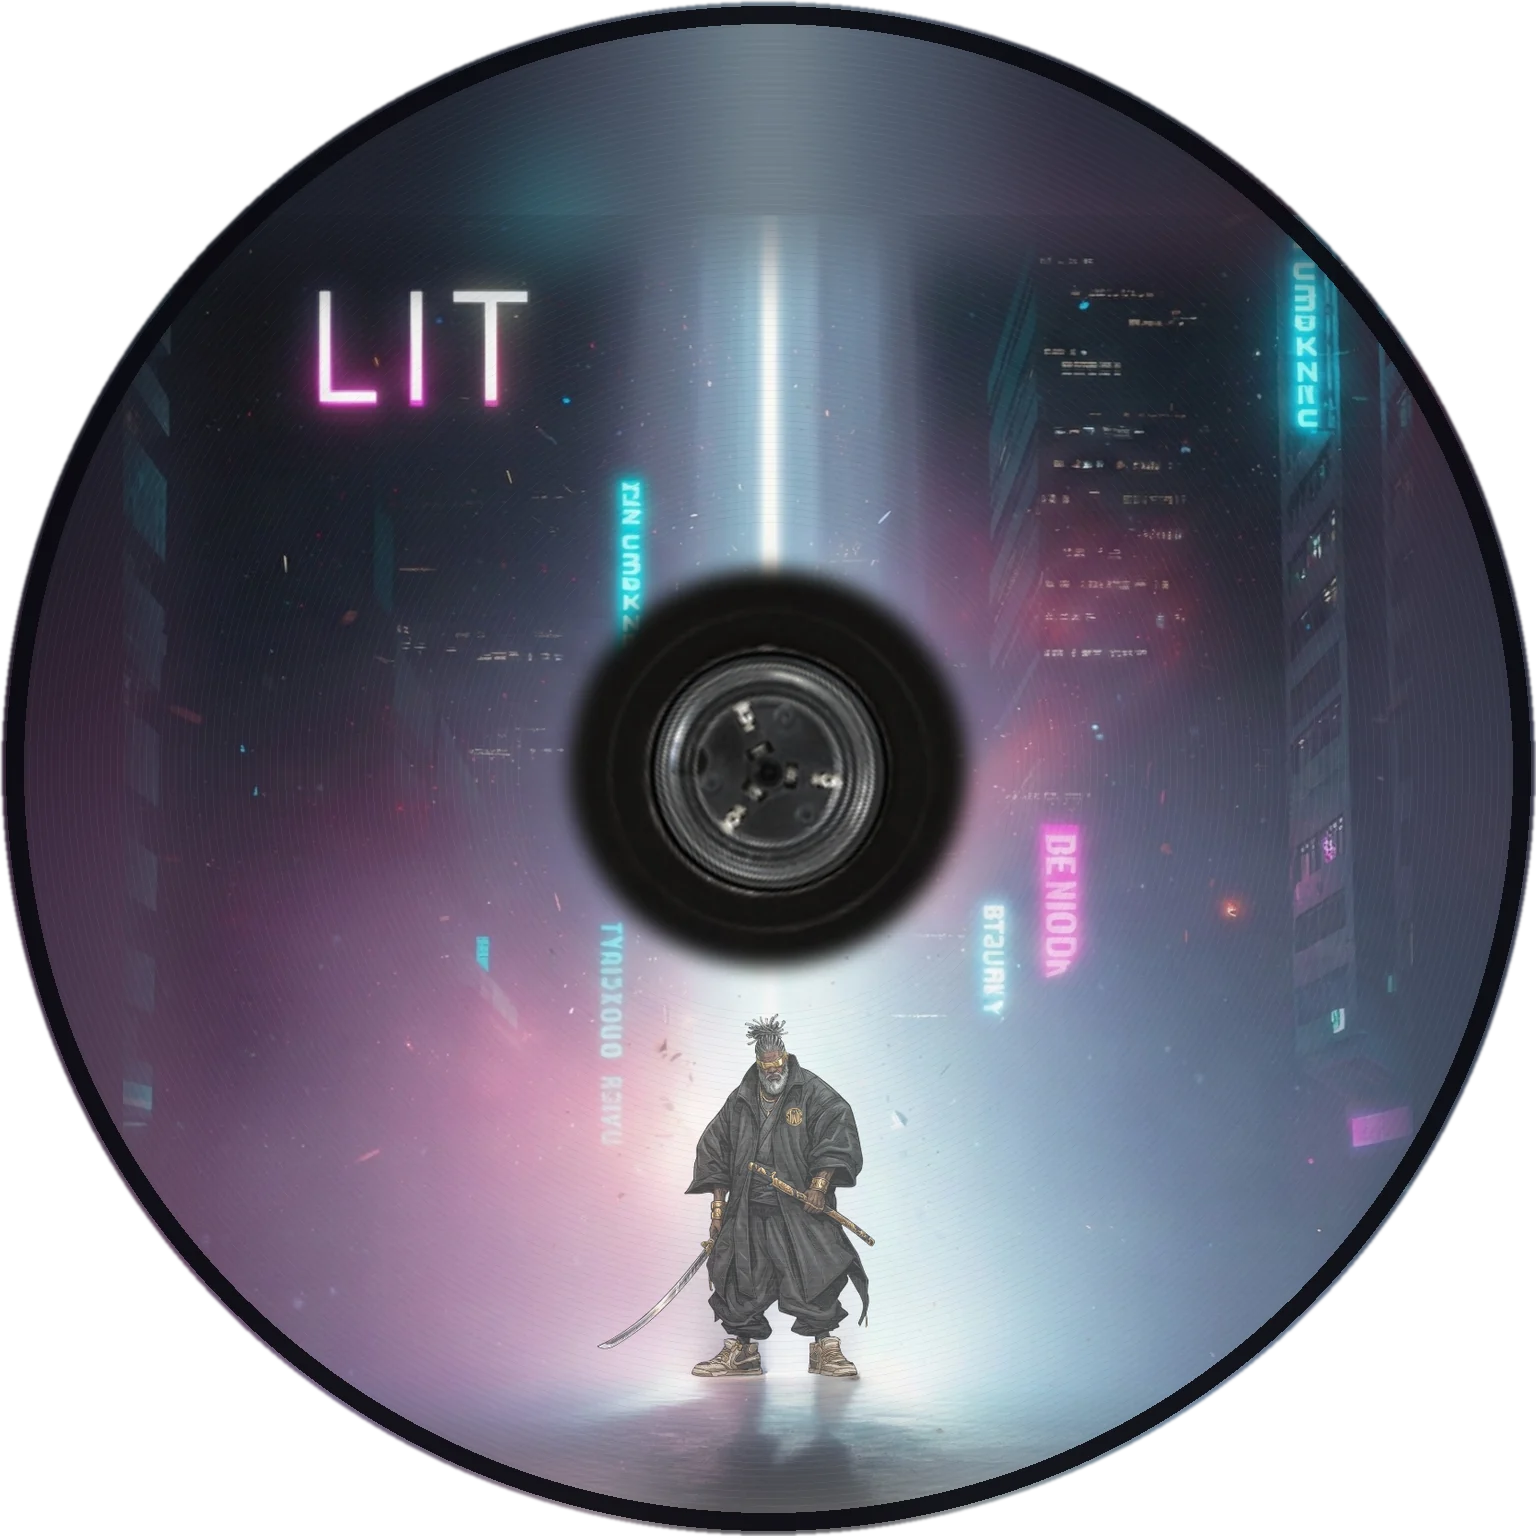
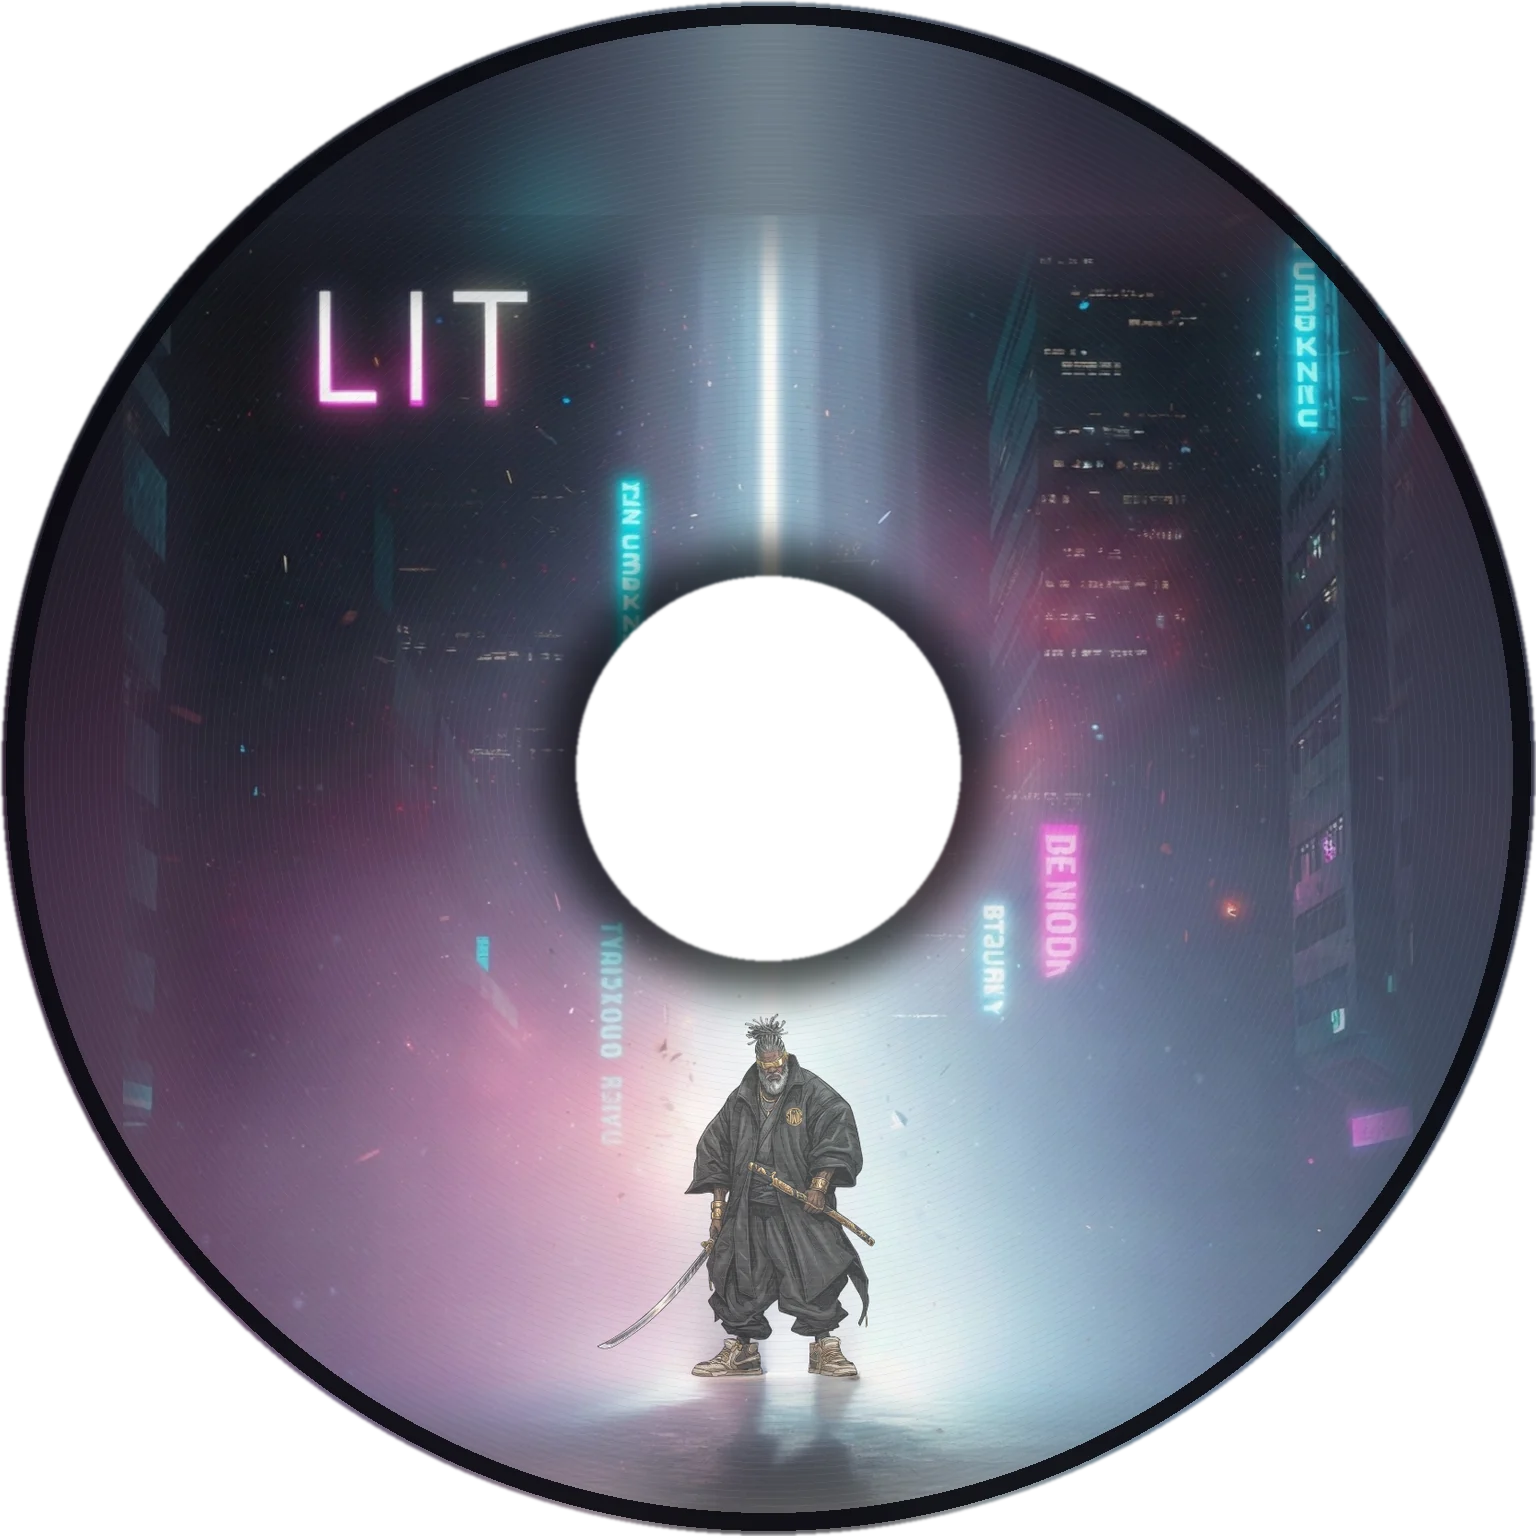
feat: disc with real thickness and a separate machined centre hub
The disc art has a centre opening with a contact shadow; a bevelled steel
hub plate with ring, spindle hole and dimples sits in it and spins with
the disc. The disc gets an outer edge, inner wall and silver data side.

Claude-Session: https://claude.ai/code/session_017VJsJdZuLzE8MsH2QK8Pny

Changed region(s): [[0.3438, 0.3438, 0.6562, 0.6562]]

diff --git a/src/player3d/cartridge-detail.ts b/src/player3d/cartridge-detail.ts
@@ -1,8 +1,11 @@
 import {
   AdditiveBlending,
+  BackSide,
   BoxGeometry,
   CanvasTexture,
+  CircleGeometry,
   Color,
+  CylinderGeometry,
   Group,
   LatheGeometry,
   Mesh,
@@ -18,6 +21,7 @@ import {
   Vector3,
   type BufferGeometry,
   type Material,
+  type Object3D,
   type MeshStandardMaterialParameters,
   type ShaderMaterial,
   type Texture,
@@ -29,7 +33,9 @@ import { RoomEnvironment } from 'three/addons/environments/RoomEnvironment.js';
  * Realism layer for the MiniDisc cartridge, on top of the Canva artwork:
  * - real Phillips screws (lathe heads, brushed steel, recessed cross) seated in counterbored wells: the shell
  *   is cut open at each screw and a plastic well (wall + floor) sinks below the surface,
- * - steel hub rings (the disc's clamp plate, and the hub on the back),
+ * - a disc with real thickness (top face, outer edge, inner wall, silver data side) and a separate machined
+ *   metal hub sitting in its centre opening (plate, steel ring, spindle hole, dimples) that spins with it,
+ * - a steel hub ring and chrome cap on the back,
  * - clear-plastic gloss: an additive clearcoat pass over the shell, with normals from the artwork,
  * - a rainbow sheen on the disc that shows at an angle,
  * - paper grain for the label.
@@ -147,6 +153,24 @@ function screwMaps(): { map: CanvasTexture; aoMap: CanvasTexture; normalMap: Can
   return { map, aoMap, normalMap: heightToNormal(height, 6) };
 }
 
+/** Concentric machining rings for the hub plate, as a normal map. */
+function machinedNormal(): CanvasTexture {
+  const size = 256;
+  const [height, ctx] = canvas(size);
+  const image = ctx.createImageData(size, size);
+  for (let y = 0; y < size; y++) {
+    for (let x = 0; x < size; x++) {
+      const r = Math.hypot(x - size / 2, y - size / 2);
+      const value = 128 + Math.sin(r * 1.9) * 40 + (Math.random() - 0.5) * 20;
+      const i = (y * size + x) * 4;
+      image.data[i] = image.data[i + 1] = image.data[i + 2] = value;
+      image.data[i + 3] = 255;
+    }
+  }
+  ctx.putImageData(image, 0, 0);
+  return heightToNormal(height, 0.8);
+}
+
 /** Fine paper fibre for the label, tiling. */
 export function paperGrainNormal(): CanvasTexture {
   const size = 256;
@@ -262,14 +286,22 @@ export interface CartridgeDetailInput {
   rect: Rect;
   screws: { front: number[][]; back: number[][]; radius: number };
   backHub: { u: number; v: number; outer: number; inner: number; cap: number };
-  disc: { x: number; y: number; z: number; radius: number; hubRing: number[] };
+  /** Disc centre, top face z (the art plane), thickness and radius; hub sizes are fractions of the radius. */
+  disc: {
+    x: number;
+    y: number;
+    topZ: number;
+    thickness: number;
+    radius: number;
+    hub: { hole: number; plate: number; ring: number[]; spindle: number };
+  };
   normals: { front: Texture; back: Texture };
   environment: Texture | null;
   quality: DetailQuality;
 }
 
-/** Builds the realism layer into the cartridge. */
-export function addCartridgeDetail(input: CartridgeDetailInput): void {
+/** Builds the realism layer into the cartridge. Returns the parts that spin with the disc. */
+export function addCartridgeDetail(input: CartridgeDetailInput): { spinning: Object3D[] } {
   const { rect, environment: envMap, quality } = input;
   const width = rect.x1 - rect.x0;
   const height = rect.y1 - rect.y0;
@@ -325,11 +357,71 @@ export function addCartridgeDetail(input: CartridgeDetailInput): void {
   cap.position.set(hx, hy, input.backZ);
   input.cartridge.add(backRing, cap);
 
-  // Disc clamp ring and rainbow sheen behind the clear window (both round, so they needn't spin).
+  // Disc body: the art is the top face (deck.ts); here its outer edge, inner wall and silver data side.
   const disc = input.disc;
-  const [ringInner, ringOuter] = disc.hubRing.map((fraction) => fraction * disc.radius);
-  const clamp = new Mesh(ring(ringInner, ringOuter, 0.0024, 1), steel({ color: '#8f959d', roughness: 0.48, envMapIntensity: 0.25 }));
-  clamp.position.set(disc.x, disc.y, disc.z + 0.0002);
+  const R = disc.radius;
+  const bottomZ = disc.topZ - disc.thickness;
+  const holeR = disc.hub.hole * R;
+  const edgeMaterial = new MeshStandardMaterial({ color: '#8d95a3', metalness: 0.55, roughness: 0.28, envMap, envMapIntensity: 0.45 });
+  const tube = (radius: number, openInward: boolean) => {
+    const geometry = new CylinderGeometry(radius, radius, disc.thickness, 96, 1, true);
+    geometry.rotateX(Math.PI / 2);
+    const mesh = new Mesh(geometry, openInward ? edgeMaterial.clone() : edgeMaterial);
+    if (openInward) (mesh.material as MeshStandardMaterial).side = BackSide; // the wall faces into the hole
+    mesh.position.set(disc.x, disc.y, disc.topZ - disc.thickness / 2);
+    return mesh;
+  };
+  const dataSide: Material =
+    quality === 'high'
+      ? new MeshPhysicalMaterial({
+          color: '#c3c8d1',
+          metalness: 1,
+          roughness: 0.22,
+          iridescence: 0.8,
+          iridescenceIOR: 1.6,
+          envMap,
+          envMapIntensity: 0.5,
+        })
+      : steel({ color: '#c3c8d1', roughness: 0.25, envMapIntensity: 0.45 });
+  const underside = new Mesh(new RingGeometry(holeR, R, 96), dataSide);
+  underside.rotation.x = Math.PI; // faces -z
+  underside.position.set(disc.x, disc.y, bottomZ);
+  input.cartridge.add(tube(R, false), tube(holeR, true), underside);
+
+  // Metal hub: a separate machined part sitting in the disc's opening, standing proud of the art.
+  const discHub = new Group();
+  discHub.position.set(disc.x, disc.y, bottomZ - 0.001);
+  const plateR = disc.hub.plate * R;
+  const plateHeight = disc.thickness + 0.001 + 0.003;
+  const bevel = 0.0014;
+  const plate = new Mesh(
+    lathe(
+      [
+        [plateR, 0],
+        [plateR, plateHeight - bevel],
+        [plateR - bevel, plateHeight],
+        [0, plateHeight],
+      ],
+      plateR,
+      1,
+    ),
+    steel({ color: '#6f747d', roughness: 0.42, normalMap: machinedNormal(), normalScale: new Vector2(0.35, 0.35) }),
+  );
+  const [ringInner, ringOuter] = disc.hub.ring.map((fraction) => fraction * R);
+  const clamp = new Mesh(ring(ringInner, ringOuter, 0.0016, 1), steel({ color: '#d2d5da', roughness: 0.26, envMapIntensity: 0.4 }));
+  clamp.position.z = plateHeight;
+  const hole = new MeshBasicMaterial({ color: '#050507' });
+  const spindleR = disc.hub.spindle * R;
+  const spindle = new Mesh(new CircleGeometry(spindleR, 40), hole);
+  spindle.position.z = plateHeight + 0.0001;
+  const lip = new Mesh(ring(spindleR, spindleR * 1.35, 0.0007, 1), steel({ roughness: 0.3 }));
+  lip.position.z = plateHeight;
+  discHub.add(plate, clamp, spindle, lip);
+  for (const side of [-1, 1]) {
+    const dimple = new Mesh(new CircleGeometry(0.02 * R, 20), hole);
+    dimple.position.set(side * 0.2 * R, 0, plateHeight + 0.0001);
+    discHub.add(dimple);
+  }
 
   const additive = { transparent: true, blending: AdditiveBlending, depthWrite: false } as const;
   const sheenMaterial: Material =
@@ -345,10 +437,10 @@ export function addCartridgeDetail(input: CartridgeDetailInput): void {
           ...additive,
         })
       : new MeshStandardMaterial({ color: 0x000000, roughness: 0.3, envMap, envMapIntensity: 0.35, ...additive });
-  const sheen = new Mesh(new RingGeometry(ringOuter, disc.radius * 0.985, 96), sheenMaterial);
-  sheen.position.set(disc.x, disc.y, disc.z + 0.0004);
+  const sheen = new Mesh(new RingGeometry(plateR, R * 0.985, 96), sheenMaterial);
+  sheen.position.set(disc.x, disc.y, disc.topZ + 0.0004);
   sheen.renderOrder = 1;
-  input.cartridge.add(clamp, sheen);
+  input.cartridge.add(discHub, sheen);
 
   // Clear-plastic gloss over the whole shell: reflections and highlights only, the artwork untouched.
   const gloss = (normals: Texture | null, openings: Texture | null) => {
@@ -375,4 +467,6 @@ export function addCartridgeDetail(input: CartridgeDetailInput): void {
   coat.position.z = input.slabZ;
   coat.renderOrder = 6;
   input.cartridge.add(coat);
+
+  return { spinning: [discHub] };
 }

diff --git a/src/player3d/deck.ts b/src/player3d/deck.ts
@@ -31,6 +31,9 @@ export const BODY_DEPTH = 0.16;
 /** Cartridge thickness (about 5.7% of its width; a real MiniDisc is about 7%). */
 export const CART_DEPTH = 0.048;
 export const CART_SEATED_Z = -BODY_DEPTH / 2;
+/** The disc's top face (the art) and thickness, inside the shell. */
+const DISC_TOP_Z = -0.003;
+const DISC_THICKNESS = 0.008;
 /** Rounded shell edges that catch highlights. */
 const CART_BEVEL = 0.004;
 const KEY_DEPTH = 0.09;
@@ -125,7 +128,7 @@ export class Deck {
   readonly cartridgeWidth: number;
   readonly cartridgeHeight: number;
   readonly glare: MeshBasicMaterial;
-  private discs: Mesh[] = [];
+  private discs: Object3D[] = [];
   private rpm = 0;
   private rpmTarget = 0;
   private readonly spinScale: number;
@@ -266,14 +269,14 @@ export class Deck {
       new PlaneGeometry(radius * 2, radius * 2),
       new MeshBasicMaterial({ map: textures.disc, transparent: true, alphaTest: 0.05 }),
     );
-    litDisc.position.set(discCentre.x, discCentre.y, -0.008);
+    litDisc.position.set(discCentre.x, discCentre.y, DISC_TOP_Z);
     litDisc.renderOrder = 1;
     const clearRadius = radius * geometry.clearDisc.radiusRatio;
     const clearDisc = new Mesh(
       new PlaneGeometry(clearRadius * 2, clearRadius * 2),
       new MeshBasicMaterial({ map: textures.discClear, transparent: true, opacity: 0.22, depthWrite: false }),
     );
-    clearDisc.position.set(discCentre.x, discCentre.y, -0.003);
+    clearDisc.position.set(discCentre.x, discCentre.y, DISC_TOP_Z + 0.0008);
     clearDisc.renderOrder = 2;
     this.discs.push(litDisc, clearDisc);
 
@@ -318,7 +321,7 @@ export class Deck {
     stock.position.z = CART_DEPTH / 2 + 0.0001;
 
     this.cartridge.add(litDisc, clearDisc, slab, stock, label);
-    addCartridgeDetail({
+    const detail = addCartridgeDetail({
       cartridge: this.cartridge,
       slabGeometry,
       shellMaterial,
@@ -329,11 +332,12 @@ export class Deck {
       rect: local,
       screws: geometry.cartridge.screws,
       backHub: geometry.cartridge.backHub,
-      disc: { x: discCentre.x, y: discCentre.y, z: litDisc.position.z, radius, hubRing: geometry.disc.hubRing },
+      disc: { x: discCentre.x, y: discCentre.y, topZ: DISC_TOP_Z, thickness: DISC_THICKNESS, radius, hub: geometry.disc.hub },
       normals: { front: textures.shellNormal, back: textures.shellBackNormal },
       environment: this.environment,
       quality: this.quality,
     });
+    this.discs.push(...detail.spinning);
     this.cartridge.position.set(c.x, c.y, CART_SEATED_Z);
     this.cartridge.userData.seated = new Vector3(c.x, c.y, CART_SEATED_Z);
     this.group.add(this.cartridge);

diff --git a/scripts/build-player-assets.py b/scripts/build-player-assets.py
@@ -275,9 +275,10 @@ def draw_eject_glyph(key):
     return key
 
 
-def build_disc_face(cover, canva_disc, size=1536, cover_scale=0.84, hub_ratio=0.26, art_offset_y=0.06):
+def build_disc_face(cover, size=1536, cover_scale=0.84, hub_hole=0.25, art_offset_y=0.06):
     """Album cover printed on a MiniDisc: blurred bleed, cover inset so the title survives the round edge,
-    the real hub from the Canva disc on top, faint grooves and a dark rim."""
+    faint grooves and a dark rim. The centre is left open (hub_hole, as a fraction of the disc radius) for
+    the separate 3D metal hub in cartridge-detail.ts, with a soft contact shadow where the hub sits."""
     from PIL import ImageDraw, ImageFilter
 
     face = Image.new("RGBA", (size, size), (6, 6, 12, 255))
@@ -303,20 +304,20 @@ def build_disc_face(cover, canva_disc, size=1536, cover_scale=0.84, hub_ratio=0.
         draw.ellipse((centre - radius, centre - radius, centre + radius, centre + radius), outline=(shade, shade, shade, 9))
     face.alpha_composite(grooves)
 
-    # Real hub from the Canva disc.
-    hub = canva_disc.resize((size, size), Image.LANCZOS)
-    hub_mask = Image.new("L", (size, size), 0)
-    r = size * hub_ratio / 2
-    ImageDraw.Draw(hub_mask).ellipse((centre - r, centre - r, centre + r, centre + r), fill=255)
-    hub.putalpha(hub_mask.filter(ImageFilter.GaussianBlur(size * 0.006)))
-    face.alpha_composite(hub)
+    # Contact shadow around the hub opening.
+    hole = size / 2 * hub_hole
+    shadow = Image.new("RGBA", (size, size), (0, 0, 0, 0))
+    ImageDraw.Draw(shadow).ellipse((centre - hole * 1.18, centre - hole * 1.18, centre + hole * 1.18, centre + hole * 1.18), fill=(0, 0, 0, 170))
+    face.alpha_composite(shadow.filter(ImageFilter.GaussianBlur(size * 0.012)))
 
-    # Dark rim and circular alpha.
+    # Dark rim, circular alpha, and the hub opening.
     rim = Image.new("RGBA", (size, size), (0, 0, 0, 0))
     ImageDraw.Draw(rim).ellipse((6, 6, size - 6, size - 6), outline=(10, 10, 16, 235), width=round(size * 0.012))
     face.alpha_composite(rim)
     mask = Image.new("L", (size, size), 0)
-    ImageDraw.Draw(mask).ellipse((2, 2, size - 2, size - 2), fill=255)
+    draw = ImageDraw.Draw(mask)
+    draw.ellipse((2, 2, size - 2, size - 2), fill=255)
+    draw.ellipse((centre - hole, centre - hole, centre + hole, centre + hole), fill=0)
     face.putalpha(mask.filter(ImageFilter.GaussianBlur(1.2)))
     return face
 
@@ -379,8 +380,13 @@ def main():
             "ry": round(disc_r / (sy1 - sy0), 5),
         },
     }
-    # hubRing: the clamp plate's metal ring on the disc face, as fractions of the disc radius.
-    geometry["disc"] = {"center": to_world(disc_cx, disc_cy), "radius": round(disc_r / body_w, 5), "hubRing": [0.105, 0.145]}
+    # hub: the separate 3D metal hub (cartridge-detail.ts), as fractions of the disc radius. The disc face
+    # has an opening of `hole`; the hub plate (`plate`) overlaps its edge.
+    geometry["disc"] = {
+        "center": to_world(disc_cx, disc_cy),
+        "radius": round(disc_r / body_w, 5),
+        "hub": {"hole": 0.25, "plate": 0.265, "ring": [0.105, 0.145], "spindle": 0.045},
+    }
     # 2048 px (source is about 2340 px) so the eject inspector can zoom in.
     shell_crop = shell.crop((sx0, sy0, sx1, sy1))
     sizes["shell.webp"] = save_webp(shell_crop, "shell.webp", 2048)
@@ -402,7 +408,7 @@ def main():
     half = round(disc_r)
     canva_disc = disc.crop((round(disc_cx) - half, round(disc_cy) - half, round(disc_cx) + half, round(disc_cy) + half))
     art_path = Path(args.disc_art).expanduser()
-    disc_face = build_disc_face(Image.open(art_path).convert("RGBA"), canva_disc) if art_path.exists() else canva_disc
+    disc_face = build_disc_face(Image.open(art_path).convert("RGBA")) if art_path.exists() else canva_disc
     sizes["disc.webp"] = save_webp(disc_face, "disc.webp", 1536)
     clear = page(3)
     cx0, cy0, cx1, cy1 = alpha_bbox(clear)

diff --git a/Grilled.md b/Grilled.md
@@ -146,3 +146,4 @@ Three sub-projects, built in this order:
 | No see-through | Lawrence: "ensure areas that are transparent still that aren't supposed to be are addressed". Audit: every texture is solid inside its outline (only the deck window hole and glass glare are meant to be clear). A magenta-background check found two 3D leaks, both fixed: the cartridge was hollow (back cap and sides only rendered from outside, so you saw past the disc edge through the window), and the front shell discarded pixels where the art's outline is smaller than the 3D shape. The shell is now art over dark plastic, fully opaque outside the disc window; back cap and sides are double-sided. Seated deck, tilted deck and empty deck window checked clean |
 | Screw wells | Lawrence: "ensure you compensate for the indentations and openings where the screws are". Each screw now sits in a counterbore: the opening is cut out of the cap (shader discard on the front, alphaMap on the back and on the gloss coat), a dark plastic well (wall + floor, 1.38× the head radius, 0.008 deep) sinks below the surface, and the head rests on the floor, below the surface. Front and back |
 | Eject feel + thickness | Lawrence: "increase the disk slow down on ejection to about 3 seconds" and "make the mini disk a little bit thicker". Eject now winds the disc from 300 RPM to 0 over 3 s (`EJECT_SPIN_DOWN_SECONDS`) before the door opens and the cartridge pops (about 4.7 s in all). `CART_DEPTH` 0.036 → 0.048 (5.7% of the width; a real MiniDisc is about 7%); the slot and door follow it |
+| Disc depth + separate hub | Lawrence: "make the disk and the center hub on the disk seem like two separate things … not one layer" and "I need the disk to have depth along with the center hub". The disc is now a 0.008-thick platter (art top face, outer edge, inner wall, iridescent silver data side). The printed hub is gone from the art: the disc has a centre opening with a soft contact shadow, and a separate machined steel hub (bevelled plate, raised steel ring, spindle hole, two dimples) sits in it, standing about 0.003 proud and spinning with the disc. Sizes in `geometry.json` `disc.hub` |

diff --git a/CLAUDE.md b/CLAUDE.md
@@ -82,7 +82,7 @@ See `docs/superpowers/specs/2026-09-16-minidisc-player-3d-design.md` and the bui
 - `track-source.ts`: `ConvexTrackSource` / `MockTrackSource`.
 - `scene.ts`: renderer, framing to the HUD's `.p3d-frame`, tilt spring, bloom + CRT pass, visibility pause.
 - `deck.ts`: extruded body/cartridge/keys from `geometry.json` + WebP textures. The disc face is the LIT cover; the cartridge label is "Do Not Duplicate".
-- `cartridge-detail.ts`: realism layer over the Canva art. Lathe-turned steel Phillips screws (occlusion-mapped recess) and hub rings, an additive clearcoat pass with normals baked from the artwork, iridescent disc sheen, paper-grain label, and a studio environment map tinted with the city's neon. Coarse pointers get standard materials instead of clearcoat/iridescence.
+- `cartridge-detail.ts`: realism layer over the Canva art. Lathe-turned steel Phillips screws (occlusion-mapped recess) in counterbored wells cut into the shell, a disc with real thickness and a separate machined hub in its centre opening, a steel hub ring on the back, an additive clearcoat pass with normals baked from the artwork, iridescent disc sheen, paper-grain label, and a studio environment map tinted with the city's neon. Coarse pointers get standard materials instead of clearcoat/iridescence.
 - `halo.ts`: 3D start-up halo hovering in front of the disc while inserting or calibrating; dissipates when playback starts.
 - `backdrop.ts` / `backdrop-shaders.ts`: comic-book 90s-anime city (`city-comic.webp`, 21:9), depth-map parallax (`city-depth.webp`), pulsing neon and beam shimmer (`city-mask.webp`), flying craft, embers, rain.
 - `insert-sequence.ts`: GSAP timelines for the page-open float-in, insert (from wherever the cartridge floats) and eject. GSAP comes from the CDN, `window.gsap`.
